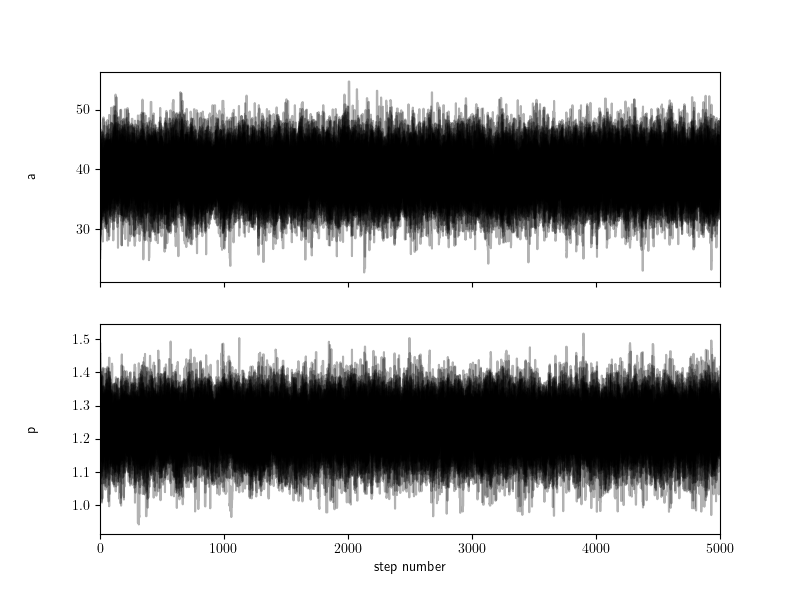
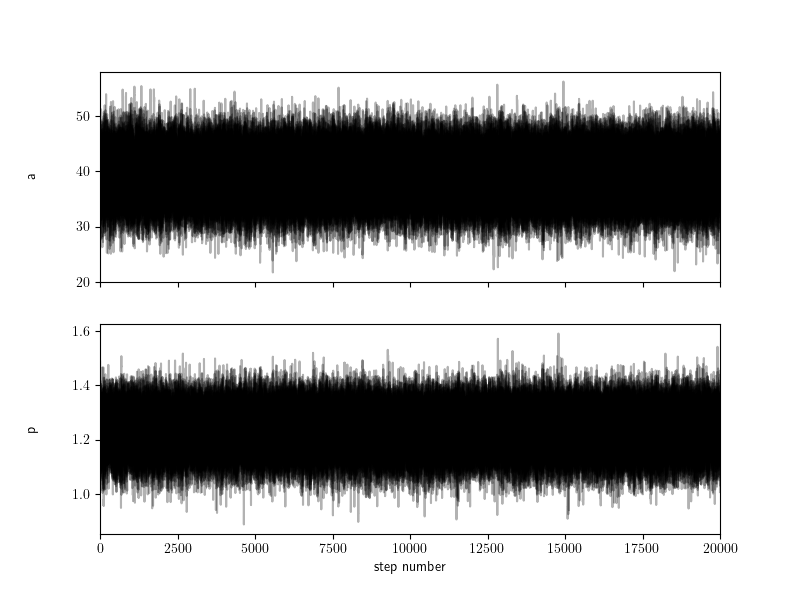
Added more MCMC plots

diff --git a/SII_Fitting_and_Densities/power_law_fit.py b/SII_Fitting_and_Densities/power_law_fit.py
@@ -4,7 +4,6 @@ import numpy as np
 import matplotlib.pyplot as plt
 from pathlib import Path
 import pandas as pd 
-from IPython.display import display, Math
 
 """For this, I am following the MCMC tutorial written by Imad Pasha at 
 https://prappleizer.github.io/Tutorials/MCMC/MCMC_Tutorial.html"""
@@ -13,7 +12,7 @@ https://prappleizer.github.io/Tutorials/MCMC/MCMC_Tutorial.html"""
 plt.rcParams["text.usetex"] = True
 
 dir = Path(__file__).resolve().parent
-dataframe = pd.read_csv(dir / "n_e_vs_z_T_e_15000_binned_data.csv", comment = "#")
+dataframe = pd.read_csv(dir / "n_e_vs_z_T_e_15000_binned_data_snr5.csv", comment = "#")
 
 lit_source = dataframe["Literature"]
 z = dataframe["z_median"].to_numpy(dtype=float)
@@ -70,7 +69,7 @@ def main(data):
     sampler.reset()
 
     print("Running production...")
-    pos, prob, state = sampler.run_mcmc(proposal, 5000, progress = True)
+    pos, prob, state = sampler.run_mcmc(proposal, 20000, progress = True)
 
     fig, axes = plt.subplots(2, figsize=(8, 6), sharex=True)
     samples = sampler.get_chain()
@@ -83,7 +82,7 @@ def main(data):
         ax.yaxis.set_label_coords(-0.1, 0.5)
     
     axes[-1].set_xlabel("step number")
-    #plt.savefig(dir / "MCMCwalkers.png")
+    plt.savefig(dir / "MCMCwalkers_nolit.png")
     #plt.show()
 
     tau = sampler.get_autocorr_time()
@@ -94,7 +93,7 @@ def main(data):
 
     fig = corner.corner(flat_samples, labels=labels, 
                         plot_datapoints=True,quantiles=[0.16, 0.5, 0.84])
-    plt.savefig(dir / "MCMCcornerplot.png")
+    plt.savefig(dir / "MCMCcornerplot_nolit.png")
     #plt.show()
 
     for i in range(ndim):
@@ -163,5 +162,5 @@ ax.set_xlabel(r"$z$")
 ax.set_ylabel(r"$n_e$ (cm$^{-3}$)")
 ax.set_yscale("log")
 ax.legend()
-plt.savefig(dir / "Master_density_plot.png")
+plt.savefig(dir / "Master_density_plot_no_lit.png")
 plt.show()

diff --git a/SII_Fitting_and_Densities/databinning.py b/SII_Fitting_and_Densities/databinning.py
@@ -90,12 +90,16 @@ for z_bin, row in summary.iterrows():
 plt.xlabel(r"$z$")
 plt.ylabel(r"$n_e$ (cm$^{-3}$)")
 plt.yscale("log")
-plt.axhline(10, color = "darkred", label = "")
-plt.title(r"$T_e = 15000 K$ (Topping/PyNeb limits, Topping $SNR>3$)")
+plt.axhline(10, color = "darkred", label = "Lower bound")
+plt.axhspan(plt.ylim()[0], 10, color="darkred", alpha=0.2)
+plt.axhline(2000, color = "darkorange", label = "Upper bound")
+plt.axhspan(2000, plt.ylim()[1], color = "darkorange", alpha = 0.2)
+plt.title(r"$T_e = 15000 K$ (Topping/PyNeb limits, Topping $SNR>5$)")
 plt.savefig(dir / "n_e_vs_z_Te_15000_binned.png", dpi=300)
+plt.legend()
 plt.show()
 
 #Save binned medians to CSV
 summary.insert(0, "Literature", "This work")
-summary.to_csv(dir / "n_e_vs_z_T_e_15000_binned_data.csv")
+summary.to_csv(dir / "n_e_vs_z_T_e_15000_binned_data_snr5.csv")
 
